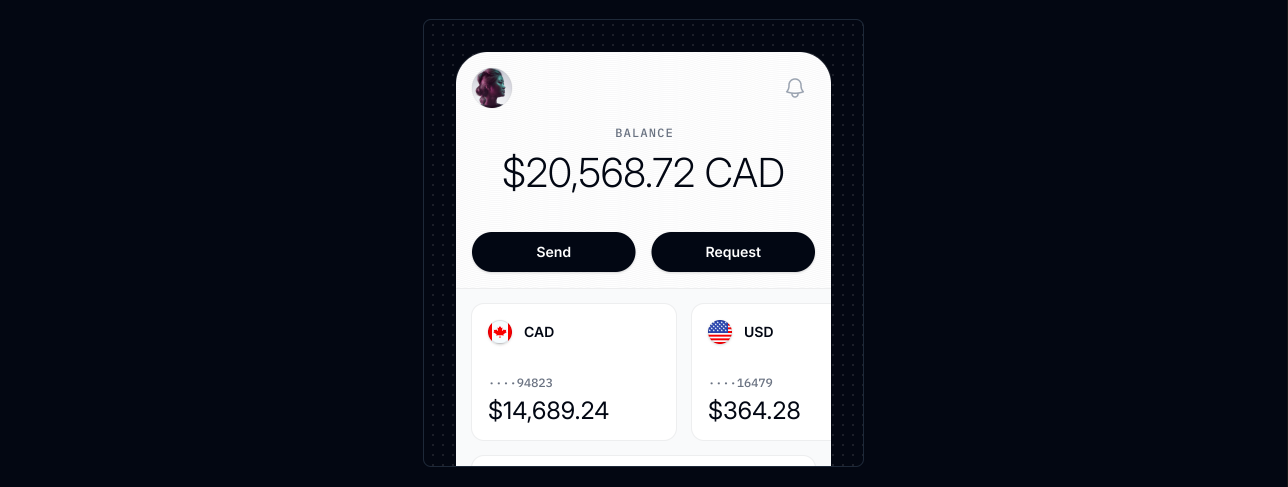
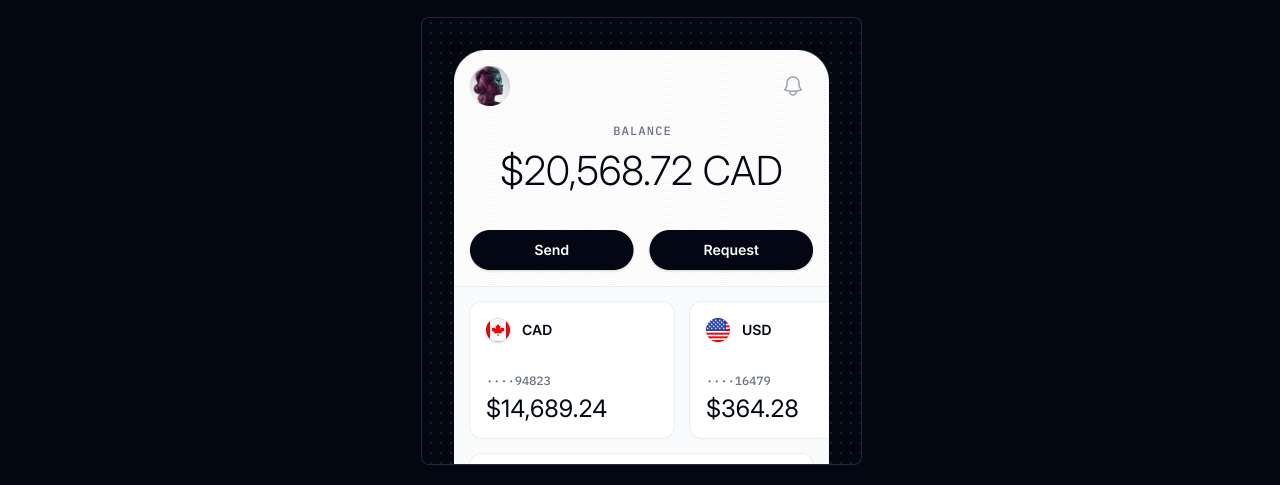
added draggable divider

diff --git a/components/demos/DualThemeToggleSlider/index.tsx b/components/demos/DualThemeToggleSlider/index.tsx
@@ -1,12 +1,20 @@
-import React from "react";
+import React, { useState } from "react";
 import ImageComparison from "./components/ImageComparison";
 
 const index = () => {
+  const [translateX, setTranslateX] = useState(187.5);
   return (
     <div className="bg-[#030712] p-5  flex justify-center items-center m-auto">
       <div className="h-112 p-4 sm:p-8 relative overflow-hidden rounded-lg border border-gray-800 bg-gray-950/[2.5%] bg-[image:radial-gradient(var(--pattern-fg)_1px,_transparent_0)] bg-[size:10px_10px] bg-fixed [--pattern-fg:var(--color-white)]/10">
         <div className=" w-full overflow-hidden">
-          <ImageComparison/>
+
+          {/* Draggable Divider */}
+          <div
+            className="absolute inset-y-0 z-10 w-1 bg-sky-400 cursor-ew-resize"
+            style={{ transform: `translateX(${translateX}px)` }}
+          ></div>
+          
+          <ImageComparison translateX={translateX} />
         </div>
       </div>
     </div>

diff --git a/components/demos/DualThemeToggleSlider/components/ImageComparison.tsx b/components/demos/DualThemeToggleSlider/components/ImageComparison.tsx
@@ -1,6 +1,6 @@
 import React from "react";
 
-const ImageComparison = () => {
+const ImageComparison = ({ translateX }: { translateX: number }) => {
   return (
     <div className="isolate flex h-full w-full items-center justify-center">
       <div className="h-[30.5rem] w-[375px] relative grid grid-cols-1 grid-rows-1 overflow-hidden rounded-t-4xl bg-gray-950/10 outline outline-gray-950/10 dark:outline-white/10">
@@ -9,6 +9,7 @@ const ImageComparison = () => {
             src="/DualThemeToggleSlider/img/light.png"
             className={`absolute inset-0`}
             alt="Light"
+            style={{clip: `rect(0px, ${translateX - 1}px, 488px, 0px)`,}}
           />
         </div>
         <div className="col-start-1 row-start-1">
